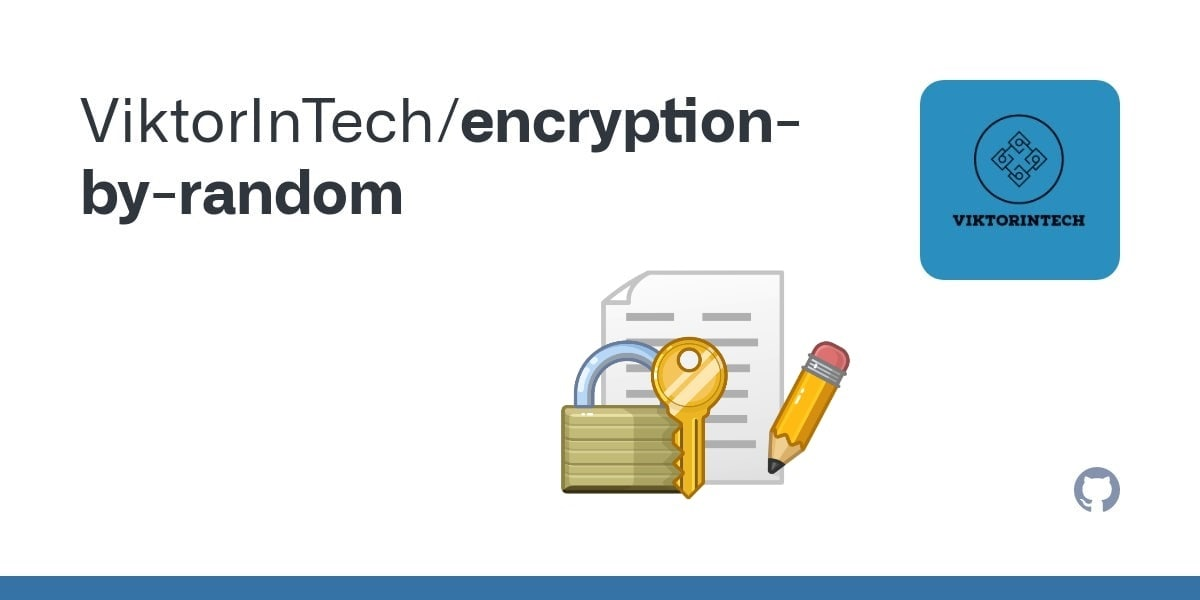
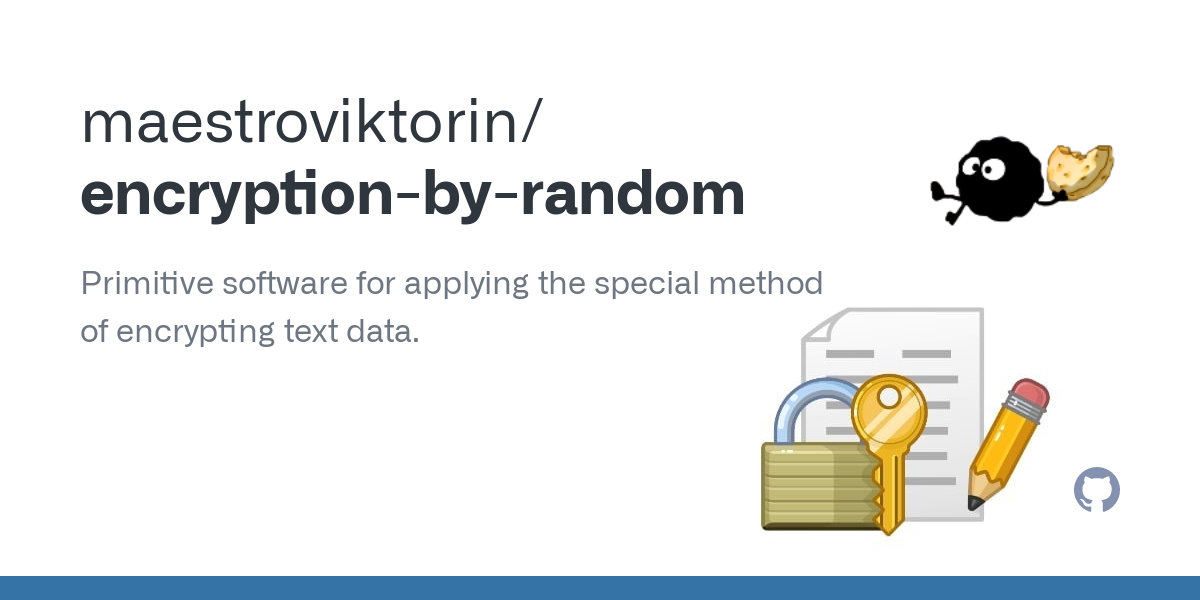
Thumbnail and contacts in README updated.

diff --git a/README.md b/README.md
@@ -1,7 +1,5 @@
 # :game_die::closed_lock_with_key:Encryption by Random
 
-[<img height="35" src=".\assets\telegram.png" title="Telegram Channel" width="35"/>](https://viktorintech.t.me)
-
 The presented open source software is used to encrypt and decrypt text files using the special method.
 
 The encryption method is based on the Caesar Cipher.  
@@ -44,3 +42,6 @@ All details for further maintenance and modernization of the code,
 as far as possible, are provided in the `__doc__` of functions and modules.
 ***
 If you have any proposals or questions, be sure to ping [me](https://github.com/maestroviktorin).
+
+[<img height="35" src=".\assets\telegram.png" title="Telegram" width="35"/>](https://maestroviktorin.t.me)
+[<img height="35" src=".\assets\discord.png" title="Discord" width="35"/>](https://discordapp.com/users/531105058864103435/)
